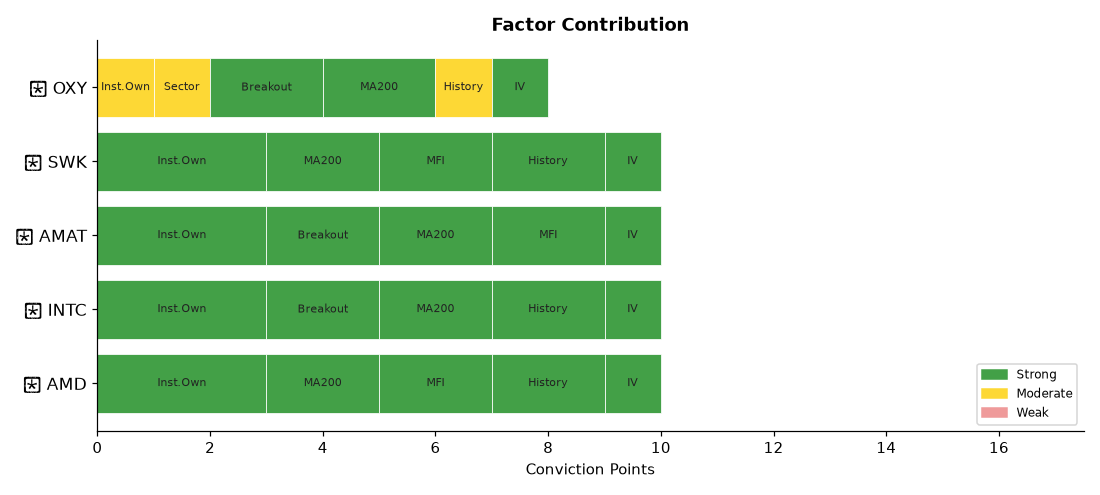
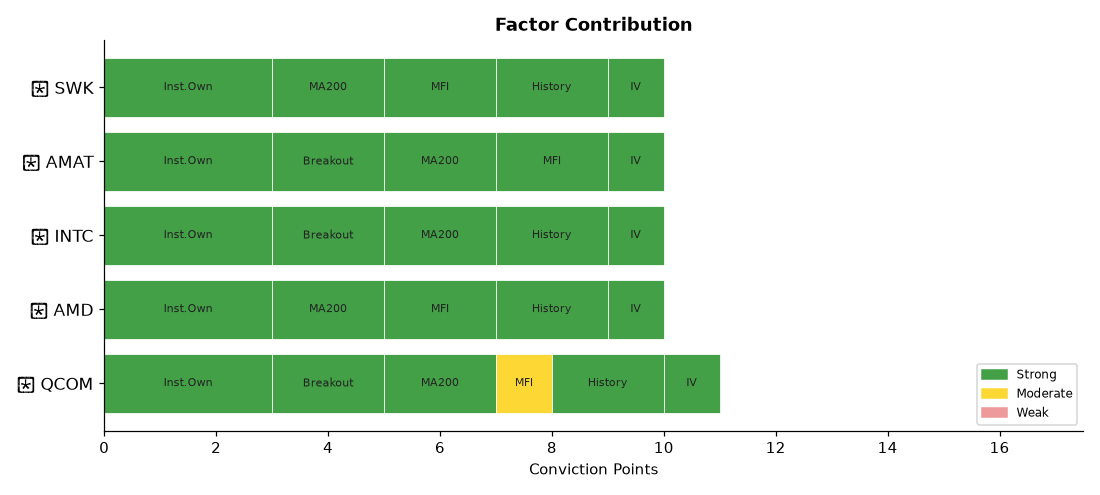
Auto-update: stock screener report 480a1ca5bbde3bc1511540069bd30db7841ddc80

diff --git a/index.html b/index.html
@@ -31,7 +31,7 @@
 
 <div class="hdr">
   <h1>📈 Stock Breakout Screener</h1>
-  <p>Updated: 2026-06-12 18:22 UTC &nbsp;·&nbsp; 129 stocks screened &nbsp;·&nbsp;
+  <p>Updated: 2026-06-12 20:37 UTC &nbsp;·&nbsp; 129 stocks screened &nbsp;·&nbsp;
      Top 5 by conviction score shown</p>
 </div>
 
@@ -54,15 +54,15 @@
                     box-shadow:0 2px 6px rgba(0,0,0,.07)">
           <div style="display:flex;align-items:center;gap:10px;flex-wrap:wrap;margin-bottom:10px">
             <span style="font-size:22px">🟡</span>
-            <span style="font-size:19px;font-weight:700">1. AMD</span>
+            <span style="font-size:19px;font-weight:700">1. QCOM</span>
             <span style="font-size:12px;color:#666">Technology</span>
             <span style="margin-left:auto;background:#1a237e;color:#fff;
                          padding:3px 12px;border-radius:12px;font-size:13px;font-weight:600">
-              10/17
+              11/17
             </span>
           </div>
           <ul style="margin:0;padding-left:18px;font-size:13px;color:#333;line-height:1.8">
-            <li style="margin:5px 0"><span style="background:#ffebee;color:#b71c1c;padding:2px 7px;border-radius:4px;font-size:11px;">❌</span> Volume: <b>0.6× average</b> — above-average activity</li><li style="margin:5px 0"><span style="background:#ffebee;color:#b71c1c;padding:2px 7px;border-radius:4px;font-size:11px;">❌</span> Candle: close <b>$512.80</b> vs open <b>$499.68</b> (+2.6%)</li><li style="margin:5px 0"><span style="background:#e8f5e9;color:#2e7d32;padding:2px 7px;border-radius:4px;font-size:11px;">✅</span> 200-Day MA: price <b>$512.80</b> vs MA <b>$282.56</b> — <b>✅ Above</b> long-term trend</li><li style="margin:5px 0"><span style="background:#e8f5e9;color:#2e7d32;padding:2px 7px;border-radius:4px;font-size:11px;">✅</span> Institutional ownership: <b>72.2%</b> · MFI: <b>60.8</b> · Market cap: <b>$837.5B</b></li><li style="margin:5px 0"><span style="background:#e8f5e9;color:#2e7d32;padding:2px 7px;border-radius:4px;font-size:11px;">✅</span> Last breakout: <b>Apr 24, 2026</b> → <b>+30.9%</b> over 10 trading days</li>
+            <li style="margin:5px 0"><span style="background:#ffebee;color:#b71c1c;padding:2px 7px;border-radius:4px;font-size:11px;">❌</span> Volume: <b>0.9× average</b> — above-average activity</li><li style="margin:5px 0"><span style="background:#e8f5e9;color:#2e7d32;padding:2px 7px;border-radius:4px;font-size:11px;">✅</span> Candle: close <b>$211.72</b> vs open <b>$201.85</b> (+4.9%)</li><li style="margin:5px 0"><span style="background:#e8f5e9;color:#2e7d32;padding:2px 7px;border-radius:4px;font-size:11px;">✅</span> 200-Day MA: price <b>$211.72</b> vs MA <b>$162.92</b> — <b>✅ Above</b> long-term trend</li><li style="margin:5px 0"><span style="background:#e8f5e9;color:#2e7d32;padding:2px 7px;border-radius:4px;font-size:11px;">✅</span> Institutional ownership: <b>84.8%</b> · MFI: <b>51.8</b> · Market cap: <b>$223.2B</b></li><li style="margin:5px 0"><span style="background:#e8f5e9;color:#2e7d32;padding:2px 7px;border-radius:4px;font-size:11px;">✅</span> Last breakout: <b>May 07, 2026</b> → <b>+5.4%</b> over 10 trading days</li>
           </ul>
         </div>
         <div style="background:#fff;border:1px solid #ddd;border-radius:10px;
@@ -70,7 +70,7 @@
                     box-shadow:0 2px 6px rgba(0,0,0,.07)">
           <div style="display:flex;align-items:center;gap:10px;flex-wrap:wrap;margin-bottom:10px">
             <span style="font-size:22px">🟡</span>
-            <span style="font-size:19px;font-weight:700">2. INTC</span>
+            <span style="font-size:19px;font-weight:700">2. AMD</span>
             <span style="font-size:12px;color:#666">Technology</span>
             <span style="margin-left:auto;background:#1a237e;color:#fff;
                          padding:3px 12px;border-radius:12px;font-size:13px;font-weight:600">
@@ -78,7 +78,7 @@
             </span>
           </div>
           <ul style="margin:0;padding-left:18px;font-size:13px;color:#333;line-height:1.8">
-            <li style="margin:5px 0"><span style="background:#ffebee;color:#b71c1c;padding:2px 7px;border-radius:4px;font-size:11px;">❌</span> Volume: <b>1.0× average</b> — above-average activity</li><li style="margin:5px 0"><span style="background:#e8f5e9;color:#2e7d32;padding:2px 7px;border-radius:4px;font-size:11px;">✅</span> Candle: close <b>$125.11</b> vs open <b>$117.42</b> (+6.6%)</li><li style="margin:5px 0"><span style="background:#e8f5e9;color:#2e7d32;padding:2px 7px;border-radius:4px;font-size:11px;">✅</span> 200-Day MA: price <b>$125.11</b> vs MA <b>$64.85</b> — <b>✅ Above</b> long-term trend</li><li style="margin:5px 0"><span style="background:#e8f5e9;color:#2e7d32;padding:2px 7px;border-radius:4px;font-size:11px;">✅</span> Institutional ownership: <b>64.0%</b> · MFI: <b>44.9</b> · Market cap: <b>$629.3B</b></li><li style="margin:5px 0"><span style="background:#e8f5e9;color:#2e7d32;padding:2px 7px;border-radius:4px;font-size:11px;">✅</span> Last breakout: <b>Apr 29, 2026</b> → <b>+27.0%</b> over 10 trading days</li>
+            <li style="margin:5px 0"><span style="background:#ffebee;color:#b71c1c;padding:2px 7px;border-radius:4px;font-size:11px;">❌</span> Volume: <b>0.8× average</b> — above-average activity</li><li style="margin:5px 0"><span style="background:#ffebee;color:#b71c1c;padding:2px 7px;border-radius:4px;font-size:11px;">❌</span> Candle: close <b>$511.57</b> vs open <b>$499.68</b> (+2.4%)</li><li style="margin:5px 0"><span style="background:#e8f5e9;color:#2e7d32;padding:2px 7px;border-radius:4px;font-size:11px;">✅</span> 200-Day MA: price <b>$511.57</b> vs MA <b>$283.13</b> — <b>✅ Above</b> long-term trend</li><li style="margin:5px 0"><span style="background:#e8f5e9;color:#2e7d32;padding:2px 7px;border-radius:4px;font-size:11px;">✅</span> Institutional ownership: <b>72.2%</b> · MFI: <b>61.5</b> · Market cap: <b>$834.2B</b></li><li style="margin:5px 0"><span style="background:#e8f5e9;color:#2e7d32;padding:2px 7px;border-radius:4px;font-size:11px;">✅</span> Last breakout: <b>Apr 24, 2026</b> → <b>+30.9%</b> over 10 trading days</li>
           </ul>
         </div>
         <div style="background:#fff;border:1px solid #ddd;border-radius:10px;
@@ -86,7 +86,7 @@
                     box-shadow:0 2px 6px rgba(0,0,0,.07)">
           <div style="display:flex;align-items:center;gap:10px;flex-wrap:wrap;margin-bottom:10px">
             <span style="font-size:22px">🟡</span>
-            <span style="font-size:19px;font-weight:700">3. AMAT</span>
+            <span style="font-size:19px;font-weight:700">3. INTC</span>
             <span style="font-size:12px;color:#666">Technology</span>
             <span style="margin-left:auto;background:#1a237e;color:#fff;
                          padding:3px 12px;border-radius:12px;font-size:13px;font-weight:600">
@@ -94,7 +94,7 @@
             </span>
           </div>
           <ul style="margin:0;padding-left:18px;font-size:13px;color:#333;line-height:1.8">
-            <li style="margin:5px 0"><span style="background:#ffebee;color:#b71c1c;padding:2px 7px;border-radius:4px;font-size:11px;">❌</span> Volume: <b>0.6× average</b> — above-average activity</li><li style="margin:5px 0"><span style="background:#e8f5e9;color:#2e7d32;padding:2px 7px;border-radius:4px;font-size:11px;">✅</span> Candle: close <b>$566.91</b> vs open <b>$548.62</b> (+3.3%)</li><li style="margin:5px 0"><span style="background:#e8f5e9;color:#2e7d32;padding:2px 7px;border-radius:4px;font-size:11px;">✅</span> 200-Day MA: price <b>$566.91</b> vs MA <b>$364.23</b> — <b>✅ Above</b> long-term trend</li><li style="margin:5px 0"><span style="background:#e8f5e9;color:#2e7d32;padding:2px 7px;border-radius:4px;font-size:11px;">✅</span> Institutional ownership: <b>85.1%</b> · MFI: <b>80.8</b> · Market cap: <b>$450.3B</b></li>
+            <li style="margin:5px 0"><span style="background:#ffebee;color:#b71c1c;padding:2px 7px;border-radius:4px;font-size:11px;">❌</span> Volume: <b>1.3× average</b> — above-average activity</li><li style="margin:5px 0"><span style="background:#e8f5e9;color:#2e7d32;padding:2px 7px;border-radius:4px;font-size:11px;">✅</span> Candle: close <b>$124.57</b> vs open <b>$117.42</b> (+6.1%)</li><li style="margin:5px 0"><span style="background:#e8f5e9;color:#2e7d32;padding:2px 7px;border-radius:4px;font-size:11px;">✅</span> 200-Day MA: price <b>$124.57</b> vs MA <b>$65.07</b> — <b>✅ Above</b> long-term trend</li><li style="margin:5px 0"><span style="background:#e8f5e9;color:#2e7d32;padding:2px 7px;border-radius:4px;font-size:11px;">✅</span> Institutional ownership: <b>64.0%</b> · MFI: <b>46.1</b> · Market cap: <b>$626.1B</b></li><li style="margin:5px 0"><span style="background:#e8f5e9;color:#2e7d32;padding:2px 7px;border-radius:4px;font-size:11px;">✅</span> Last breakout: <b>Apr 29, 2026</b> → <b>+27.0%</b> over 10 trading days</li>
           </ul>
         </div>
         <div style="background:#fff;border:1px solid #ddd;border-radius:10px;
@@ -102,7 +102,23 @@
                     box-shadow:0 2px 6px rgba(0,0,0,.07)">
           <div style="display:flex;align-items:center;gap:10px;flex-wrap:wrap;margin-bottom:10px">
             <span style="font-size:22px">🟡</span>
-            <span style="font-size:19px;font-weight:700">4. SWK</span>
+            <span style="font-size:19px;font-weight:700">4. AMAT</span>
+            <span style="font-size:12px;color:#666">Technology</span>
+            <span style="margin-left:auto;background:#1a237e;color:#fff;
+                         padding:3px 12px;border-radius:12px;font-size:13px;font-weight:600">
+              10/17
+            </span>
+          </div>
+          <ul style="margin:0;padding-left:18px;font-size:13px;color:#333;line-height:1.8">
+            <li style="margin:5px 0"><span style="background:#ffebee;color:#b71c1c;padding:2px 7px;border-radius:4px;font-size:11px;">❌</span> Volume: <b>1.0× average</b> — above-average activity</li><li style="margin:5px 0"><span style="background:#e8f5e9;color:#2e7d32;padding:2px 7px;border-radius:4px;font-size:11px;">✅</span> Candle: close <b>$567.25</b> vs open <b>$548.62</b> (+3.4%)</li><li style="margin:5px 0"><span style="background:#e8f5e9;color:#2e7d32;padding:2px 7px;border-radius:4px;font-size:11px;">✅</span> 200-Day MA: price <b>$567.25</b> vs MA <b>$365.08</b> — <b>✅ Above</b> long-term trend</li><li style="margin:5px 0"><span style="background:#e8f5e9;color:#2e7d32;padding:2px 7px;border-radius:4px;font-size:11px;">✅</span> Institutional ownership: <b>85.1%</b> · MFI: <b>81.3</b> · Market cap: <b>$450.4B</b></li>
+          </ul>
+        </div>
+        <div style="background:#fff;border:1px solid #ddd;border-radius:10px;
+                    padding:16px 20px;margin-bottom:12px;
+                    box-shadow:0 2px 6px rgba(0,0,0,.07)">
+          <div style="display:flex;align-items:center;gap:10px;flex-wrap:wrap;margin-bottom:10px">
+            <span style="font-size:22px">🟡</span>
+            <span style="font-size:19px;font-weight:700">5. SWK</span>
             <span style="font-size:12px;color:#666">Industrials</span>
             <span style="margin-left:auto;background:#1a237e;color:#fff;
                          padding:3px 12px;border-radius:12px;font-size:13px;font-weight:600">
@@ -110,23 +126,7 @@
             </span>
           </div>
           <ul style="margin:0;padding-left:18px;font-size:13px;color:#333;line-height:1.8">
-            <li style="margin:5px 0"><span style="background:#ffebee;color:#b71c1c;padding:2px 7px;border-radius:4px;font-size:11px;">❌</span> Volume: <b>0.4× average</b> — above-average activity</li><li style="margin:5px 0"><span style="background:#ffebee;color:#b71c1c;padding:2px 7px;border-radius:4px;font-size:11px;">❌</span> Candle: close <b>$83.90</b> vs open <b>$83.50</b> (+0.5%)</li><li style="margin:5px 0"><span style="background:#e8f5e9;color:#2e7d32;padding:2px 7px;border-radius:4px;font-size:11px;">✅</span> 200-Day MA: price <b>$83.90</b> vs MA <b>$76.82</b> — <b>✅ Above</b> long-term trend</li><li style="margin:5px 0"><span style="background:#e8f5e9;color:#2e7d32;padding:2px 7px;border-radius:4px;font-size:11px;">✅</span> Institutional ownership: <b>95.7%</b> · MFI: <b>63.6</b> · Market cap: <b>$13.0B</b></li><li style="margin:5px 0"><span style="background:#e8f5e9;color:#2e7d32;padding:2px 7px;border-radius:4px;font-size:11px;">✅</span> Last breakout: <b>Feb 05, 2026</b> → <b>+7.5%</b> over 10 trading days</li>
-          </ul>
-        </div>
-        <div style="background:#fff;border:1px solid #ddd;border-radius:10px;
-                    padding:16px 20px;margin-bottom:12px;
-                    box-shadow:0 2px 6px rgba(0,0,0,.07)">
-          <div style="display:flex;align-items:center;gap:10px;flex-wrap:wrap;margin-bottom:10px">
-            <span style="font-size:22px">🟡</span>
-            <span style="font-size:19px;font-weight:700">5. OXY</span>
-            <span style="font-size:12px;color:#666">Energy</span>
-            <span style="margin-left:auto;background:#1a237e;color:#fff;
-                         padding:3px 12px;border-radius:12px;font-size:13px;font-weight:600">
-              8/17
-            </span>
-          </div>
-          <ul style="margin:0;padding-left:18px;font-size:13px;color:#333;line-height:1.8">
-            <li style="margin:5px 0"><span style="background:#ffebee;color:#b71c1c;padding:2px 7px;border-radius:4px;font-size:11px;">❌</span> Volume: <b>0.5× average</b> — above-average activity</li><li style="margin:5px 0"><span style="background:#e8f5e9;color:#2e7d32;padding:2px 7px;border-radius:4px;font-size:11px;">✅</span> Candle: close <b>$56.83</b> vs open <b>$54.74</b> (+3.8%)</li><li style="margin:5px 0"><span style="background:#e8f5e9;color:#2e7d32;padding:2px 7px;border-radius:4px;font-size:11px;">✅</span> 200-Day MA: price <b>$56.83</b> vs MA <b>$52.03</b> — <b>✅ Above</b> long-term trend</li><li style="margin:5px 0"><span style="background:#fffde7;color:#f57f17;padding:2px 7px;border-radius:4px;font-size:11px;">⚠</span> Institutional ownership: <b>55.2%</b> · MFI: <b>35.1</b> · Market cap: <b>$56.5B</b></li><li style="margin:5px 0"><span style="background:#fffde7;color:#f57f17;padding:2px 7px;border-radius:4px;font-size:11px;">⚠</span> Last breakout: <b>Feb 19, 2026</b> → <b>+3.3%</b> over 10 trading days</li>
+            <li style="margin:5px 0"><span style="background:#ffebee;color:#b71c1c;padding:2px 7px;border-radius:4px;font-size:11px;">❌</span> Volume: <b>0.7× average</b> — above-average activity</li><li style="margin:5px 0"><span style="background:#ffebee;color:#b71c1c;padding:2px 7px;border-radius:4px;font-size:11px;">❌</span> Candle: close <b>$83.62</b> vs open <b>$83.50</b> (+0.1%)</li><li style="margin:5px 0"><span style="background:#e8f5e9;color:#2e7d32;padding:2px 7px;border-radius:4px;font-size:11px;">✅</span> 200-Day MA: price <b>$83.62</b> vs MA <b>$76.84</b> — <b>✅ Above</b> long-term trend</li><li style="margin:5px 0"><span style="background:#e8f5e9;color:#2e7d32;padding:2px 7px;border-radius:4px;font-size:11px;">✅</span> Institutional ownership: <b>95.7%</b> · MFI: <b>64.6</b> · Market cap: <b>$13.0B</b></li><li style="margin:5px 0"><span style="background:#e8f5e9;color:#2e7d32;padding:2px 7px;border-radius:4px;font-size:11px;">✅</span> Last breakout: <b>Feb 05, 2026</b> → <b>+7.5%</b> over 10 trading days</li>
           </ul>
         </div>
 
@@ -147,64 +147,64 @@
   </tr>
   
         <tr>
+          <td style="font-weight:700;text-align:left;padding-left:10px">🟡 QCOM</td>
+          <td style="background:#ffcdd2">0.9×</td>
+          <td style="background:#c8e6c9">+4.9%</td>
+          <td style="background:#c8e6c9">▲ Above</td>
+          <td style="background:#c8e6c9">84.8%</td>
+          <td style="background:#fff9c4">51.8</td>
+          <td style="background:#ffcdd2">Technology</td>
+          <td style="background:#c8e6c9">223.7%</td>
+          <td style="background:#c8e6c9">+5.4%</td>
+          <td style="font-weight:800;font-size:15px">11/17</td>
+        </tr>
+        <tr>
           <td style="font-weight:700;text-align:left;padding-left:10px">🟡 AMD</td>
-          <td style="background:#ffcdd2">0.6×</td>
-          <td style="background:#ffcdd2">+2.6%</td>
+          <td style="background:#ffcdd2">0.8×</td>
+          <td style="background:#ffcdd2">+2.4%</td>
           <td style="background:#c8e6c9">▲ Above</td>
           <td style="background:#c8e6c9">72.2%</td>
-          <td style="background:#c8e6c9">60.8</td>
+          <td style="background:#c8e6c9">61.5</td>
           <td style="background:#ffcdd2">Technology</td>
-          <td style="background:#c8e6c9">563.4%</td>
+          <td style="background:#c8e6c9">387.0%</td>
           <td style="background:#c8e6c9">+30.9%</td>
           <td style="font-weight:800;font-size:15px">10/17</td>
         </tr>
         <tr>
           <td style="font-weight:700;text-align:left;padding-left:10px">🟡 INTC</td>
-          <td style="background:#ffcdd2">1.0×</td>
-          <td style="background:#c8e6c9">+6.6%</td>
+          <td style="background:#ffcdd2">1.3×</td>
+          <td style="background:#c8e6c9">+6.1%</td>
           <td style="background:#c8e6c9">▲ Above</td>
           <td style="background:#c8e6c9">64.0%</td>
-          <td style="background:#ffcdd2">44.9</td>
+          <td style="background:#ffcdd2">46.1</td>
           <td style="background:#ffcdd2">Technology</td>
-          <td style="background:#c8e6c9">302.2%</td>
+          <td style="background:#c8e6c9">220.2%</td>
           <td style="background:#c8e6c9">+27.0%</td>
           <td style="font-weight:800;font-size:15px">10/17</td>
         </tr>
         <tr>
           <td style="font-weight:700;text-align:left;padding-left:10px">🟡 AMAT</td>
-          <td style="background:#ffcdd2">0.6×</td>
-          <td style="background:#c8e6c9">+3.3%</td>
+          <td style="background:#ffcdd2">1.0×</td>
+          <td style="background:#c8e6c9">+3.4%</td>
           <td style="background:#c8e6c9">▲ Above</td>
           <td style="background:#c8e6c9">85.1%</td>
-          <td style="background:#c8e6c9">80.8</td>
+          <td style="background:#c8e6c9">81.3</td>
           <td style="background:#ffcdd2">Technology</td>
-          <td style="background:#c8e6c9">296.4%</td>
+          <td style="background:#c8e6c9">221.9%</td>
           <td style="background:#ffcdd2">N/A</td>
           <td style="font-weight:800;font-size:15px">10/17</td>
         </tr>
         <tr>
           <td style="font-weight:700;text-align:left;padding-left:10px">🟡 SWK</td>
-          <td style="background:#ffcdd2">0.4×</td>
-          <td style="background:#ffcdd2">+0.5%</td>
+          <td style="background:#ffcdd2">0.7×</td>
+          <td style="background:#ffcdd2">+0.1%</td>
           <td style="background:#c8e6c9">▲ Above</td>
           <td style="background:#c8e6c9">95.7%</td>
-          <td style="background:#c8e6c9">63.6</td>
+          <td style="background:#c8e6c9">64.6</td>
           <td style="background:#ffcdd2">Industrials</td>
-          <td style="background:#c8e6c9">167.3%</td>
+          <td style="background:#c8e6c9">170.5%</td>
           <td style="background:#c8e6c9">+7.5%</td>
           <td style="font-weight:800;font-size:15px">10/17</td>
-        </tr>
-        <tr>
-          <td style="font-weight:700;text-align:left;padding-left:10px">🟡 OXY</td>
-          <td style="background:#ffcdd2">0.5×</td>
-          <td style="background:#c8e6c9">+3.8%</td>
-          <td style="background:#c8e6c9">▲ Above</td>
-          <td style="background:#fff9c4">55.2%</td>
-          <td style="background:#ffcdd2">35.1</td>
-          <td style="background:#fff9c4">Energy</td>
-          <td style="background:#c8e6c9">260.4%</td>
-          <td style="background:#fff9c4">+3.3%</td>
-          <td style="font-weight:800;font-size:15px">8/17</td>
         </tr>
 </table>
 </div>
@@ -227,47 +227,47 @@
       
         <tr>
           <td style="text-align:left;padding-left:10px;font-weight:600">#1 Materials</td>
-          <td style="background:#e8f5e9;color:#2e7d32;font-weight:700">+2.07%</td>
+          <td style="background:#e8f5e9;color:#2e7d32;font-weight:700">+1.87%</td>
         </tr>
         <tr>
           <td style="text-align:left;padding-left:10px;font-weight:600">#2 Financials</td>
-          <td style="background:#e8f5e9;color:#2e7d32;font-weight:700">+1.13%</td>
+          <td style="background:#e8f5e9;color:#2e7d32;font-weight:700">+1.37%</td>
         </tr>
         <tr>
-          <td style="text-align:left;padding-left:10px;font-weight:600">#3 Energy</td>
-          <td style="background:#e8f5e9;color:#2e7d32;font-weight:700">+1.07%</td>
+          <td style="text-align:left;padding-left:10px;font-weight:600">#3 Utilities</td>
+          <td style="background:#e8f5e9;color:#2e7d32;font-weight:700">+1.09%</td>
         </tr>
         <tr>
-          <td style="text-align:left;padding-left:10px;font-weight:600">#4 Utilities</td>
-          <td style="background:#e8f5e9;color:#2e7d32;font-weight:700">+0.92%</td>
+          <td style="text-align:left;padding-left:10px;font-weight:600">#4 Real Estate</td>
+          <td style="background:#e8f5e9;color:#2e7d32;font-weight:700">+0.98%</td>
         </tr>
         <tr>
-          <td style="text-align:left;padding-left:10px;font-weight:600">#5 Real Estate</td>
-          <td style="background:#e8f5e9;color:#2e7d32;font-weight:700">+0.80%</td>
+          <td style="text-align:left;padding-left:10px;font-weight:600">#5 Technology</td>
+          <td style="background:#e8f5e9;color:#2e7d32;font-weight:700">+0.87%</td>
         </tr>
         <tr>
-          <td style="text-align:left;padding-left:10px;font-weight:600">#6 Technology</td>
-          <td style="background:#e8f5e9;color:#2e7d32;font-weight:700">+0.76%</td>
+          <td style="text-align:left;padding-left:10px;font-weight:600">#6 Energy</td>
+          <td style="background:#e8f5e9;color:#2e7d32;font-weight:700">+0.75%</td>
         </tr>
         <tr>
           <td style="text-align:left;padding-left:10px;font-weight:600">#7 Consumer Stpl</td>
-          <td style="background:#e8f5e9;color:#2e7d32;font-weight:700">+0.57%</td>
+          <td style="background:#e8f5e9;color:#2e7d32;font-weight:700">+0.65%</td>
         </tr>
         <tr>
           <td style="text-align:left;padding-left:10px;font-weight:600">#8 Industrials</td>
-          <td style="background:#e8f5e9;color:#2e7d32;font-weight:700">+0.56%</td>
+          <td style="background:#e8f5e9;color:#2e7d32;font-weight:700">+0.59%</td>
         </tr>
         <tr>
-          <td style="text-align:left;padding-left:10px;font-weight:600">#9 Healthcare</td>
-          <td style="background:#ffebee;color:#c62828;font-weight:700">-0.16%</td>
+          <td style="text-align:left;padding-left:10px;font-weight:600">#9 Consumer Disc</td>
+          <td style="background:#e8f5e9;color:#2e7d32;font-weight:700">+0.26%</td>
         </tr>
         <tr>
-          <td style="text-align:left;padding-left:10px;font-weight:600">#10 Consumer Disc</td>
-          <td style="background:#ffebee;color:#c62828;font-weight:700">-0.21%</td>
+          <td style="text-align:left;padding-left:10px;font-weight:600">#10 Healthcare</td>
+          <td style="background:#ffebee;color:#c62828;font-weight:700">-0.18%</td>
         </tr>
         <tr>
           <td style="text-align:left;padding-left:10px;font-weight:600">#11 Comm. Services</td>
-          <td style="background:#ffebee;color:#c62828;font-weight:700">-0.25%</td>
+          <td style="background:#ffebee;color:#c62828;font-weight:700">-0.42%</td>
         </tr>
     </table>
   </div>
